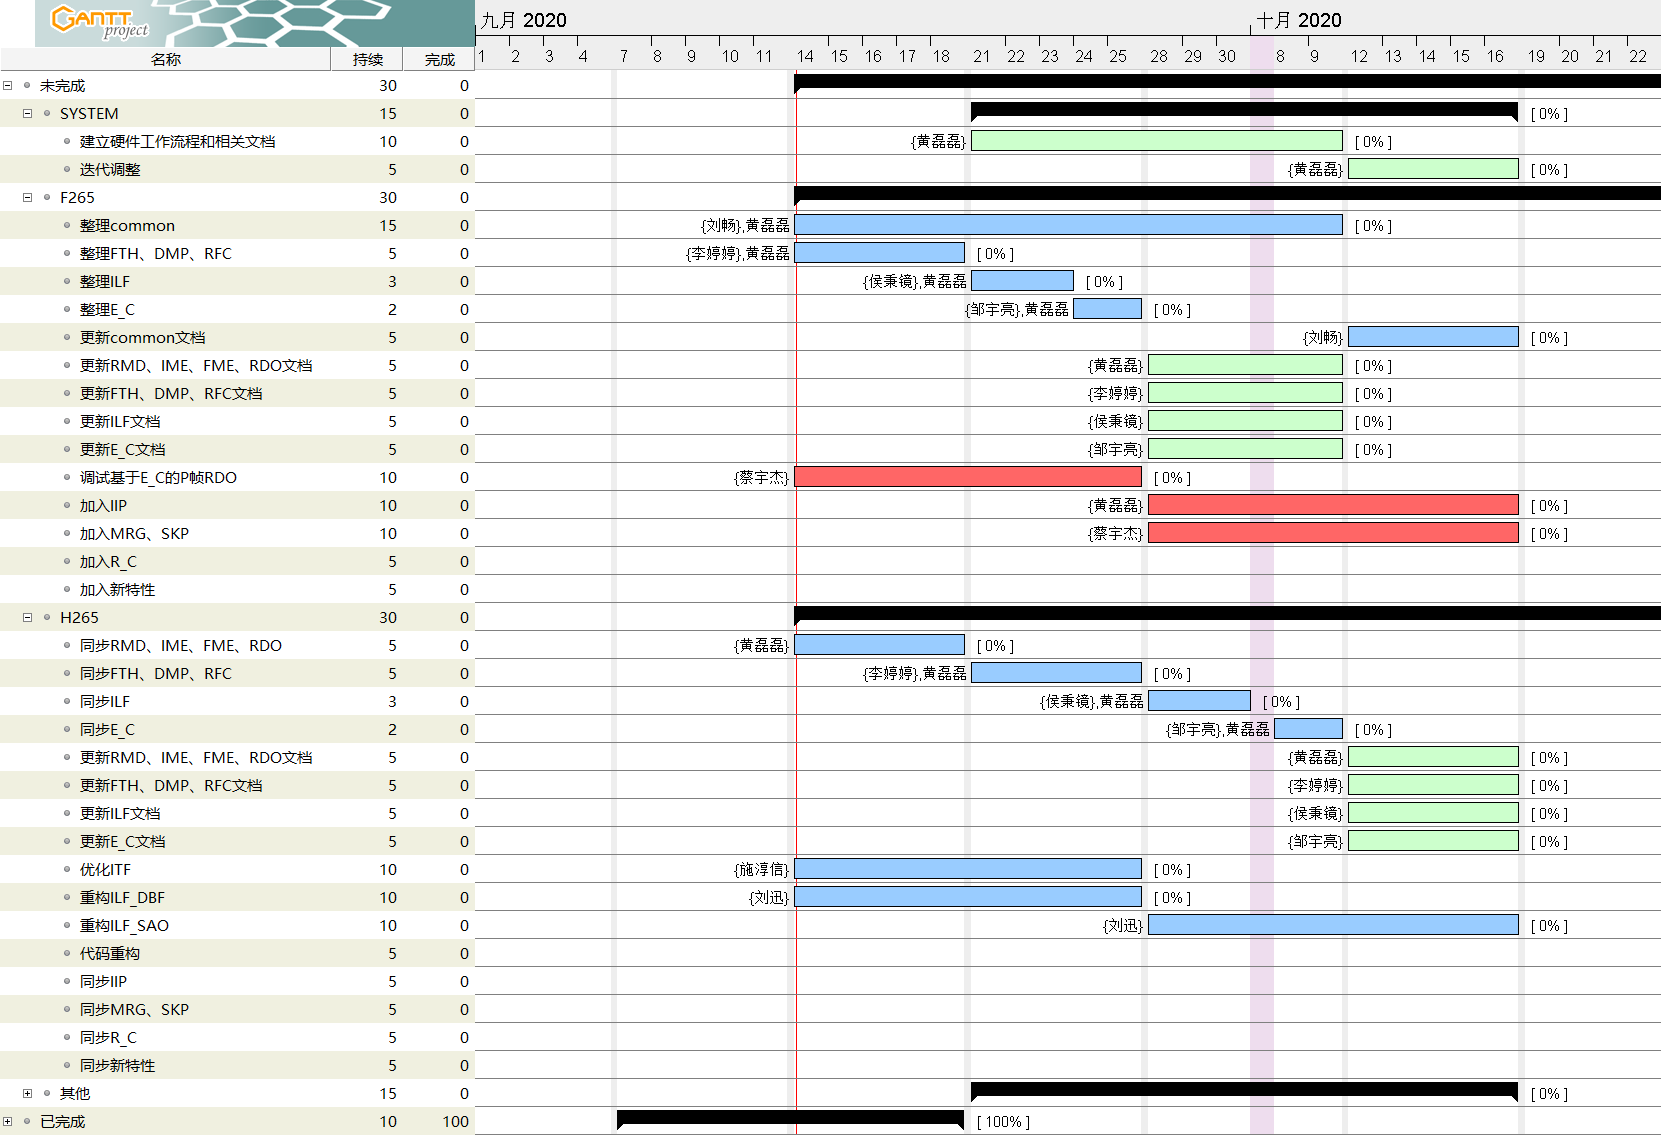
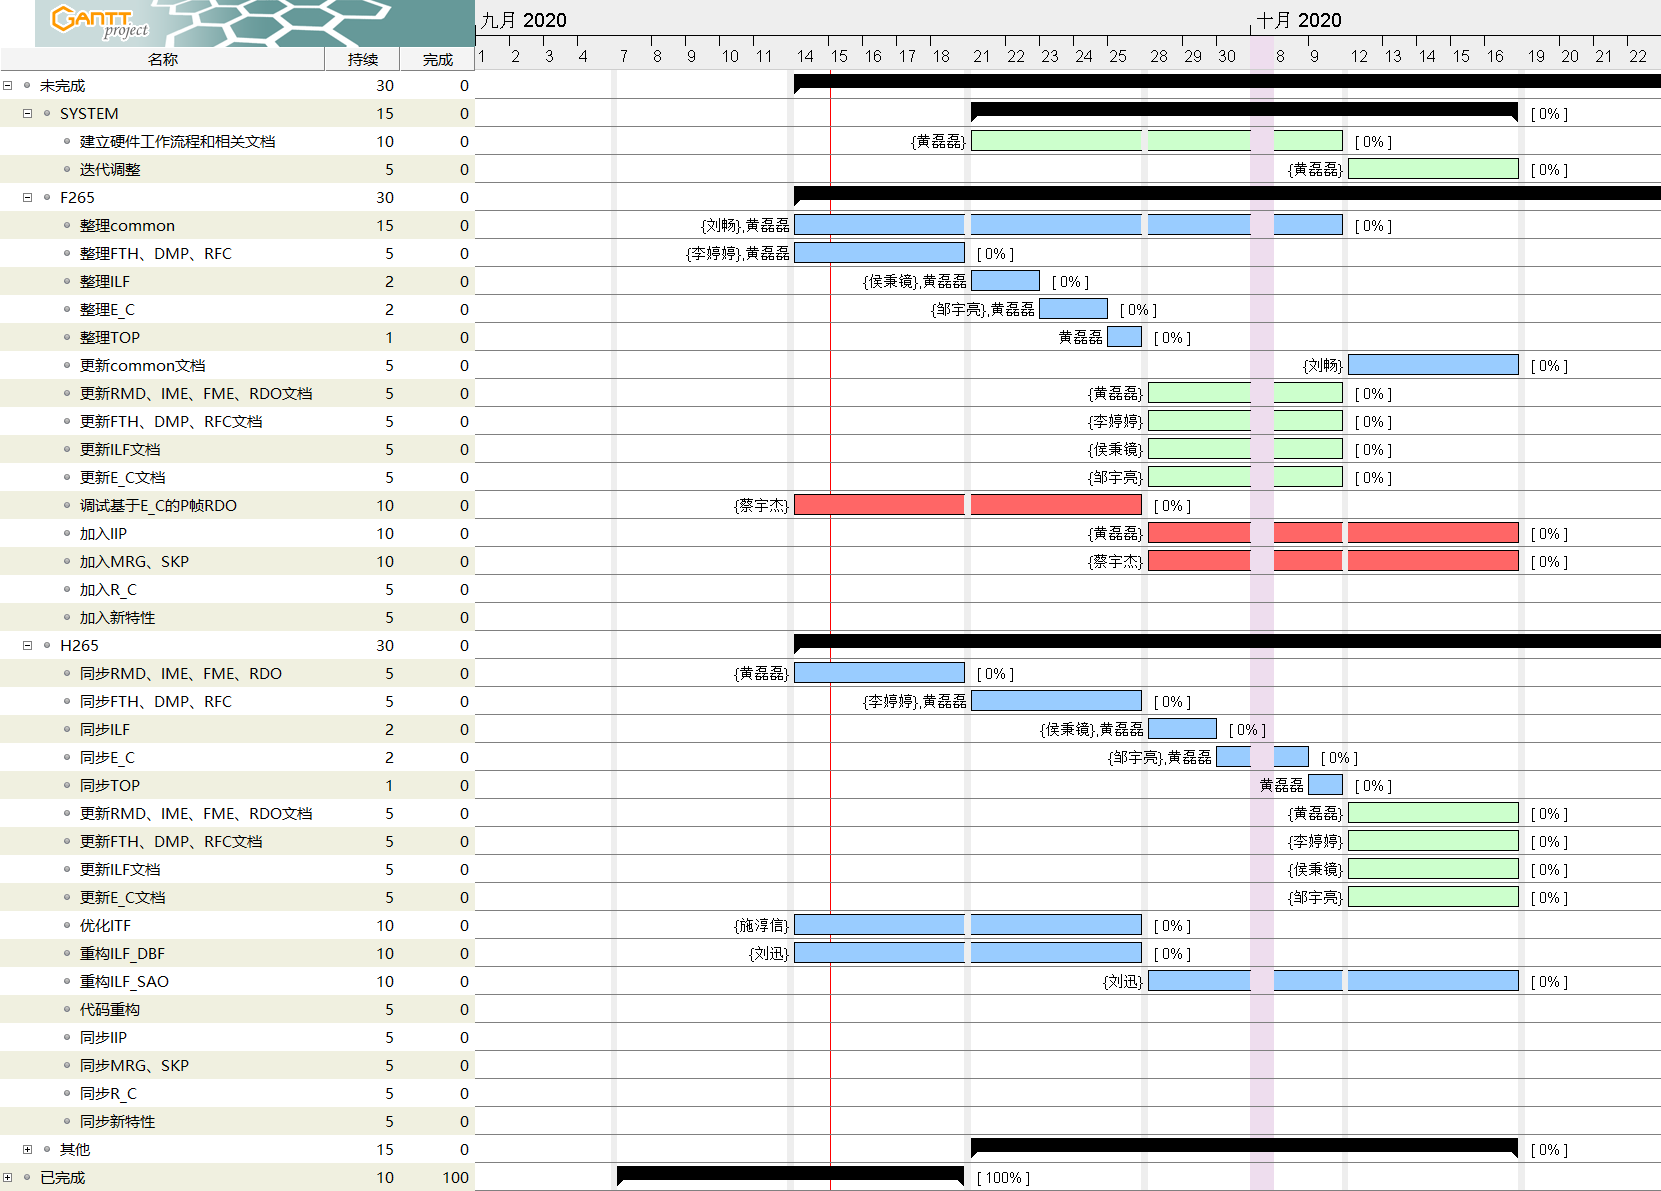
[MINOR] [UPDATE] 1. introduction    a. task list updated

Changed region(s): [[0.0, 0.0, 1.0, 1.0], [0.307, 0.0, 0.3377, 0.0617], [0.3685, 0.0308, 0.3992, 0.0617]]

diff --git a/source/introduction/main.rst b/source/introduction/main.rst
@@ -128,7 +128,7 @@ Owner
 Task List
 ---------
 
-gantt
+gantt (20200915)
 
 .. image:: task.png
 
@@ -138,20 +138,23 @@ gantt
     :align: left
     :widths: auto
 
-    ============= ======================================================== ================================================ =========================== ============== =====================
-     Number        Task                                                     Start Point                                      Target Module               Owner          Status
-    ============= ======================================================== ================================================ =========================== ============== =====================
-     20200907-01   create base class and tidy up other whatever I noticed   tidyup/src/004/tidyUpWhatINoticed/master         src/enc/enc_knl/enc_rmd/    Huang Leilei   20200901 - 20200902
-     20200907-01   create base class and tidy up other whatever I noticed   tidyup/src/004/tidyUpWhatINoticed/master         src/enc/enc_knl/enc_ime/    Huang Leilei   20200907 - 20200908
-     20200907-01   create base class and tidy up other whatever I noticed   tidyup/src/004/tidyUpWhatINoticed/master         src/enc/enc_knl/enc_fme/    Huang Leilei   20200908 - 20200908
-     20200907-01   create base class and tidy up other whatever I noticed   tidyup/src/004/tidyUpWhatINoticed/master         src/enc/enc_knl/enc_rdo/    Huang Leilei   20200908 - 20200909
-     20200907-01   create base class and tidy up other whatever I noticed   tidyup/src/004/tidyUpWhatINoticed/master         src/enc/enc_knl/enc_knl/    Huang Leilei   20200909 - 20200909
-     20200907-01   create base class and tidy up other whatever I noticed   tidyup/src/004/tidyUpWhatINoticed/master         src/common/lcu/             Huang Leilei   20200910 - 20200910
-     20200914-01   continue of 20200907-01                                  tidyup/src/005/tailOfTidyUpWhatINoticed/master   src/common                  Liu Chang      \* not stated
-     20200914-01   continue of 20200907-01                                  tidyup/src/005/tailOfTidyUpWhatINoticed/master   src/enc/enc_knl/enc_fth     Li Tingting    \* not stated
-     20200914-01   continue of 20200907-01                                  tidyup/src/005/tailOfTidyUpWhatINoticed/master   src/enc/enc_knl/enc_ilf/    Hou Bingjing   \* not stated
-     20200914-01   continue of 20200907-01                                  tidyup/src/005/tailOfTidyUpWhatINoticed/master   src/enc/enc_knl/enc_e_c/    Zou Yuliang    \* not stated
-    ============= ======================================================== ================================================ =========================== ============== =====================
+    ============= ======================================================== ==================================================== ========================= =========================== =====================
+     Number        Task                                                     Start Point                                          Target Module             Owner                       Status
+    ============= ======================================================== ==================================================== ========================= =========================== =====================
+     20200907-01   create base class and tidy up other whatever I noticed   tidyup/src/004/tidyUpWhatINoticed/master             src/enc/enc_knl/enc_rmd   Huang Leilei                20200901 - 20200902
+     20200907-01   create base class and tidy up other whatever I noticed   tidyup/src/004/tidyUpWhatINoticed/master             src/enc/enc_knl/enc_ime   Huang Leilei                20200907 - 20200908
+     20200907-01   create base class and tidy up other whatever I noticed   tidyup/src/004/tidyUpWhatINoticed/master             src/enc/enc_knl/enc_fme   Huang Leilei                20200908 - 20200908
+     20200907-01   create base class and tidy up other whatever I noticed   tidyup/src/004/tidyUpWhatINoticed/master             src/enc/enc_knl/enc_rdo   Huang Leilei                20200908 - 20200909
+     20200907-01   create base class and tidy up other whatever I noticed   tidyup/src/004/tidyUpWhatINoticed/master             src/enc/enc_knl/enc_knl   Huang Leilei                20200909 - 20200909
+     20200907-01   create base class and tidy up other whatever I noticed   tidyup/src/004/tidyUpWhatINoticed/master             src/common/lcu            Huang Leilei                20200910 - 20200910
+     20200914-01   synchronize hardware and software                        tidyup/src/005/syncHwAndSW/master                    src/enc/enc_knl/enc_rmd   Huang Leilei                20200914 - 20200915
+     20200914-01   synchronize hardware and software                        tidyup/src/005/syncHwAndSW/master                    src/enc/enc_knl/enc_ime   Huang Leilei                \* not stated
+     20200914-01   synchronize hardware and software                        tidyup/src/005/syncHwAndSW/master                    src/enc/enc_knl/enc_fme   Huang Leilei                \* not stated
+     20200914-01   synchronize hardware and software                        tidyup/src/005/syncHwAndSW/master                    src/enc/enc_knl/enc_rdo   Huang Leilei                \* not stated
+     20200914-02   continue of 20200907-01                                  tidyup/src/006/ContinueOfTidyUpWhatINoticed/master   src/enc/enc_knl/enc_fth   Huang Leilei, Li Tingting   \* not stated
+     20200914-03   tidy up common                                           tidyup/src/common/000/tidyUp/master                  src/common                Liu Chang, Huang Leilei     \* not stated
+     20200914-04   create enc_rfc                                           undergoing/update/src/enc_rfc/000/create/master      src/enc/enc_knl/enc_rfc   Li Tingting                 \* not stated
+    ============= ======================================================== ==================================================== ========================= =========================== =====================
 
 \
 
